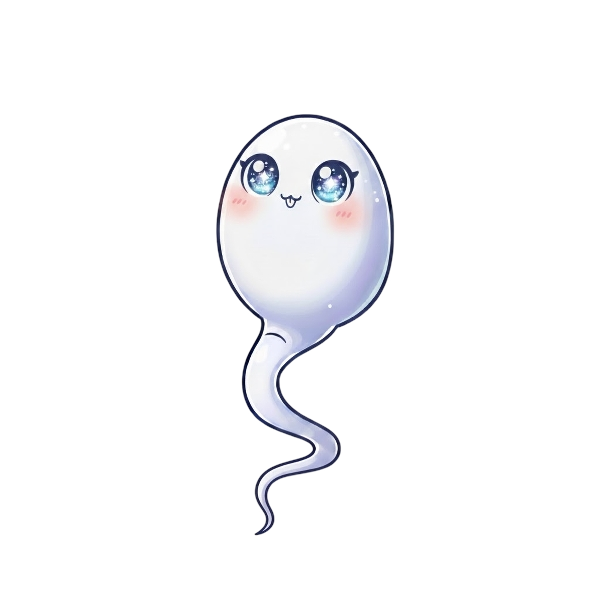
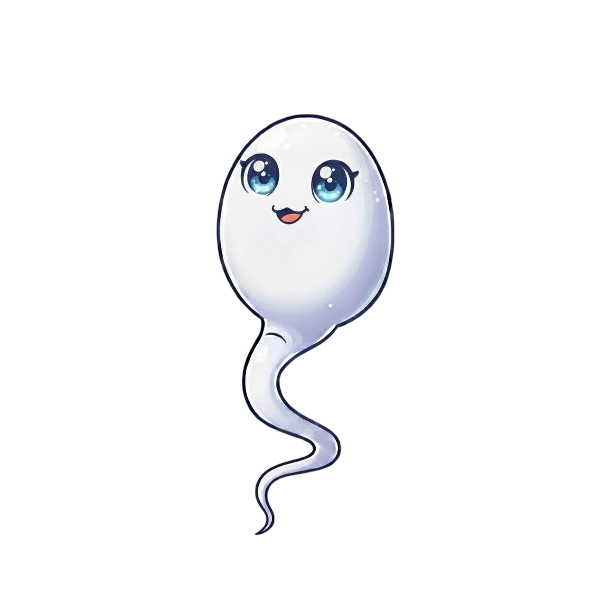
nut

diff --git a/app/page.js b/app/page.js
@@ -2,7 +2,6 @@
 
 import { useCallback, useEffect, useMemo, useState } from 'react';
 import Image from 'next/image';
-import neutralSprite from '@/public/neutral.png';
 import petriDish from '@/public/petri.png';
 import StatMeter from './components/StatMeter';
 import DerivedBadge from './components/DerivedBadge';
@@ -365,23 +364,13 @@ export default function Home() {
           />
           <div className="relative z-10 flex h-full w-full items-center justify-center animate-float">
             <Image
-              src={neutralSprite}
-              alt="Sperm buddy ghost"
+              src={wellnessState.asset}
+              alt={wellnessState.alt}
               width={240}
               height={240}
               priority
               className="h-full w-full object-contain drop-shadow-[0_16px_32px_rgba(63,61,86,0.24)]"
             />
-            <div className="absolute inset-0 flex items-center justify-center">
-              <Image
-                src={wellnessState.asset}
-                alt={wellnessState.alt}
-                width={240}
-                height={240}
-                priority
-                className="h-[85%] w-[85%] object-contain opacity-80"
-              />
-            </div>
           </div>
         </div>
         <div className="text-xs font-semibold uppercase tracking-[0.3em] text-slate-500">

diff --git a/app/data/constants.js b/app/data/constants.js
@@ -53,10 +53,10 @@ export const DEFAULT_HABIT_FORM = Object.freeze({
 });
 
 export const WELLNESS_STATES = Object.freeze([
-  { threshold: 0, key: 'sadder', asset: '/states/sadder.png', alt: 'Sadder sperm buddy' },
-  { threshold: 35, key: 'sad', asset: '/states/sad.png', alt: 'Sad sperm buddy' },
-  { threshold: 55, key: 'neutral', asset: '/states/neutral.png', alt: 'Neutral sperm buddy' },
-  { threshold: 75, key: 'happy', asset: '/states/happy.png', alt: 'Happy sperm buddy' },
-  { threshold: 90, key: 'happiest', asset: '/states/happiest.png', alt: 'Happiest sperm buddy' },
+  { threshold: 0, key: 'sadder', asset: '/sadder.png', alt: 'Sadder sperm buddy' },
+  { threshold: 25, key: 'sad', asset: '/sad.png', alt: 'Sad sperm buddy' },
+  { threshold: 40, key: 'neutral', asset: '/neutral.png', alt: 'Neutral sperm buddy' },
+  { threshold: 75, key: 'happy', asset: '/happy.png', alt: 'Happy sperm buddy' },
+  { threshold: 90, key: 'happiest', asset: '/happier.png', alt: 'Happiest sperm buddy' },
 ]);
 

diff --git a/app/components/LandingScreen.js b/app/components/LandingScreen.js
@@ -1,5 +1,4 @@
 import Image from 'next/image';
-import neutralSprite from '@/public/neutral.png';
 
 export default function LandingScreen({
   name,
